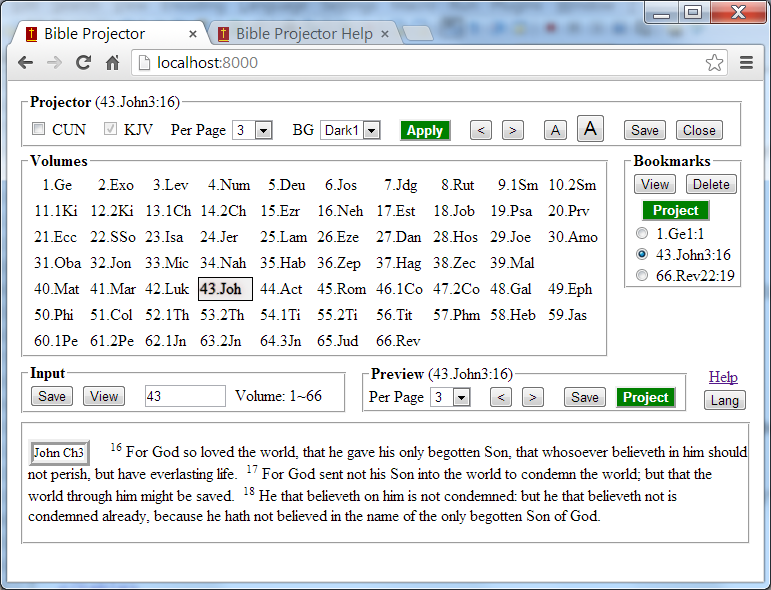
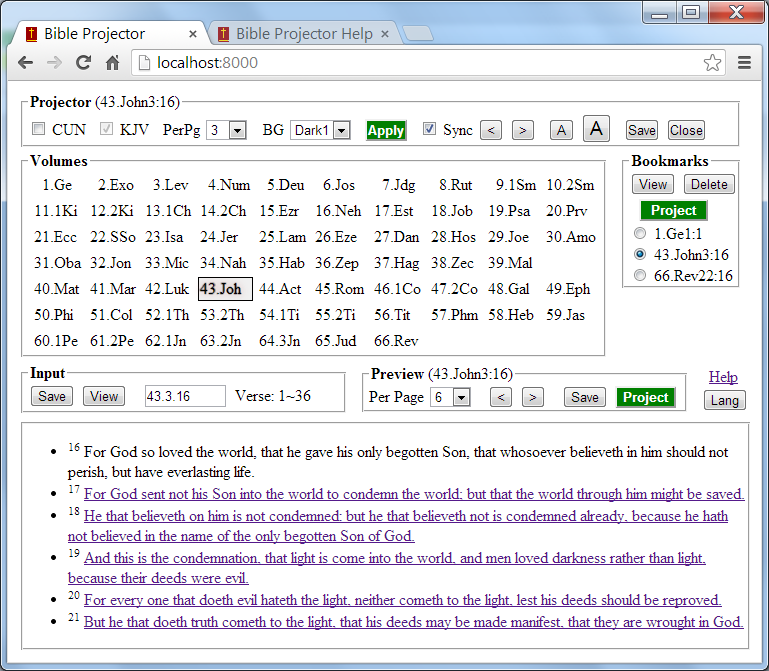
Update screenshot in help.html, misc

diff --git a/help.html b/help.html
@@ -33,35 +33,35 @@
         <a href="#anchorInput">Input</a> field, clicking the volume abbreviation will put the volume
         number in the input field;</li>
       <li>Second, type <b>Enter</b> or click the <b>View</b> button to preview the verse you entered in
-        input field; Use <a href="#anchorPreview">Preview</a> to verify if you selected the correct
-        verse.</li>
+        input field; Read in <a href="#anchorPreviewArea">Preview area</a> to verify if you selected the
+        correct verse.</li>
       <li>If the verse is correct, click the <b>Project</b> button to project it; Click the
         <b>Save</b> button to bookmark it for later use.</li>
       <li>Use <a href="#anchorProjector">Projector controls</a> for paging, font size adjustment,
         and background selection.</li>
-      <li>Double clicking a bookmark will display it in <a href="#anchorPreview">Preview area</a>;
+      <li>Double clicking a bookmark will display it in <a href="#anchorPreviewArea">Preview area</a>;
         Selecting a bookmark then clicking the <b>Project</b> button will project it.</li>
   </ol>
   <b>Note</b>: Bookmarks and background selection will be saved locally, they will be loaded when you come back.
-    You can choose to remember your anguage selection at the start page. 
+    You can choose to remember your language selection at the start page. 
   
   <h2><a name="anchorScreenDetails">Screen Details</a></h2>
   <p>The main window is divided into areas: <a href="#anchorProjector">Projector Control</a> at
     top, In the second row, there are <a href="#anchorVolumes">Volumes</a>,
     <a href="#anchorBookmarks">Bookmarks</a>. In the third row, <a href="#anchorInput">Input</a> Control,
-    <a href="#anchorPreview">Preview Control</a>, help link and Language control. And <a href="#anchorPreview">Preview</a>
-    is at the bottom.</p>  
+    <a href="#anchorPreviewControl">Preview Control</a>, help link and Language control. And
+    <a href="#anchorPreviewArea">Preview area</a> is at the bottom.</p>  
   <table>
     <tr valign="bottom">
         <td></td>
-        <td width="780px">
+        <td width="770px">
           <h3><a name="anchorProjector">Projector</a></h3>
           <p>The first two checkboxes allow user to select what version of the bible to projected.
             <b>CUN</b> stands for Chinese Union Version, <b>KJV</b> stands for King James Version.
             You can select how many verses to display in Project window, the <b>BG</b> dropdown
             allows user select the background of projector window. Clicking the <b>Apply</b> button
             to apply these settings. Check the Sync if you want the content in
-            <a href="#anchorPreview">Preview</a> to be synchronized. Clicking the two arrow buttons
+            <a href="#anchorPreviewArea">Preview area</a> to be synchronized. Clicking the two arrow buttons
             <b>&lt;</b> and <b>&gt;</b> goes to preview page or next page. Clicking the two buttons
             labeled by letter <b>A</b> descrease or increase the font size of projector window.
             Clicking the <b>Save</b> button will save the current verse as bookmark, <b>Close</b>
@@ -85,12 +85,12 @@
         <td style="margin-left: 2em;">
           <img src="images/screenMain.png">
         </td>
-        <td width="220em">
+        <td width="180em">
           <h3><a name="anchorBookmarks">Bookmarks</a></h3>
           <p>You can save verses as bookmark. Clicking the <b>View</b> button to preview the verse,
             <b>Project</b> button to display the verse in the projector window.</p>
           
-          <h3><a name="anchorPreview">Preview</a></h3>
+          <h3><a name="anchorPreviewControl">Preview control</a></h3>
           <p>You select how many verses to display in Preview area, go to preview page or next page.
             Click the <b>Save</b> button will save the current verse as bookmark, <b>Project</b>
             button display the verse in the projector window.</p>
@@ -107,9 +107,9 @@
     <tr>
         <td></td>
         <td width="700px" style="margin-left: 2em;">
-          <h3><a name="anchorPreview">Preview</a></h3>
-          <p>Verses are displayed in this area before projecting. Clicking the verses except the first
-          one will make the verse to be the first.</p>
+          <h3><a name="anchorPreviewArea">Preview area</a></h3>
+          <p>Verses are displayed in this area as hyperlinks except the first one, clicking the links
+          will make the clicked verse to be displayed as the first one.</p>
         </td>
         <td></td>
     </tr>

diff --git a/elements/projector-controller.js b/elements/projector-controller.js
@@ -88,14 +88,18 @@
 
     closeProjector: function( evt ) {
       if( this.isProjectorOpen() ) {
-        this.projWin.close();
-        this.projWin = -1
-        this.projectorClosed = true;
-        this.$.closeBtn.value = 'Open';
-        this.$.closeBtn.title = 'Open the projector window';
+        this._afterProjWinClosed();
       } else {
         this._projectVerse();
       }
+    },
+    
+    _afterProjWinClosed: function() {
+      this.projWin.close();
+      this.projWin = -1
+      this.projectorClosed = true;
+      this.$.closeBtn.value = 'Open';
+      this.$.closeBtn.title = 'Open the projector window';
     },
 
     projectVerse: function( verseEvent ) {
@@ -151,10 +155,25 @@
       this.$.closeBtn.value = 'Close';
       this.$.closeBtn.title = 'Close the projector window';
 
+      var projectorControllerThis = this;
+      var timer = window.setInterval( function() {
+          if( projectorControllerThis.checkProjectWin() ) {
+            window.clearInterval( timer );
+          }
+        }, 500
+      );
+      
       if( this.syncPreview ) {
         var evt = new VerseEvent( this.nVolume, this.startVerseSub );
         this.fire( 'preview-verse', {verseEvent: evt} );
       }
+    },
+    
+    checkProjectWin: function() {
+      if( !this.isProjectorOpen() ) {
+        this._afterProjWinClosed();
+      }
+      return this.projectorClosed;
     },
 
     getVerseTextForDisplay: function( versionList, borderColor ) {

diff --git a/elements/lang-selector.js b/elements/lang-selector.js
@@ -19,12 +19,7 @@
         this.langInfoList.forEach( function( langInfo ) {
           langInfo.selected = langInfo.value == selectedLang;
         });
-          langSelectorThis._selectLang();
-          /*
-        timer = window.setInterval( function() {
-          window.clearInterval( timer );
-        }, 500 );
-        */
+        langSelectorThis._selectLang();
       } else {
         var secondsToStart = this.secondsToStart;
         var secondsToStartCounter = this.$.secondsToStartCounter;
@@ -39,7 +34,8 @@
     },
 
     selectTimeout: function() {
-      this.$.startBtn.click();
+      if( !started )
+        this.$.startBtn.click();
     },
 
     selectLang: function( evt ) {

diff --git a/elements/bible-app.js b/elements/bible-app.js
@@ -10,6 +10,14 @@
       var langSelectEvt = evt.detail;
       bibleLang = langSelectEvt.lang;
       setDefaultVer();
+      var langSelectorThis = this;
+      var timer = window.setInterval( function() {
+          window.clearInterval( timer );
+          langSelectorThis._selectLang( langSelectEvt );
+        }, 1 );
+    },
+    
+    _selectLang: function( langSelectEvt ) {
       this.$.verseSelector.init();
       this.$.projectController.defaultVerSelected();
       this.$.bookmarkMgr.defaultVerSelected();
